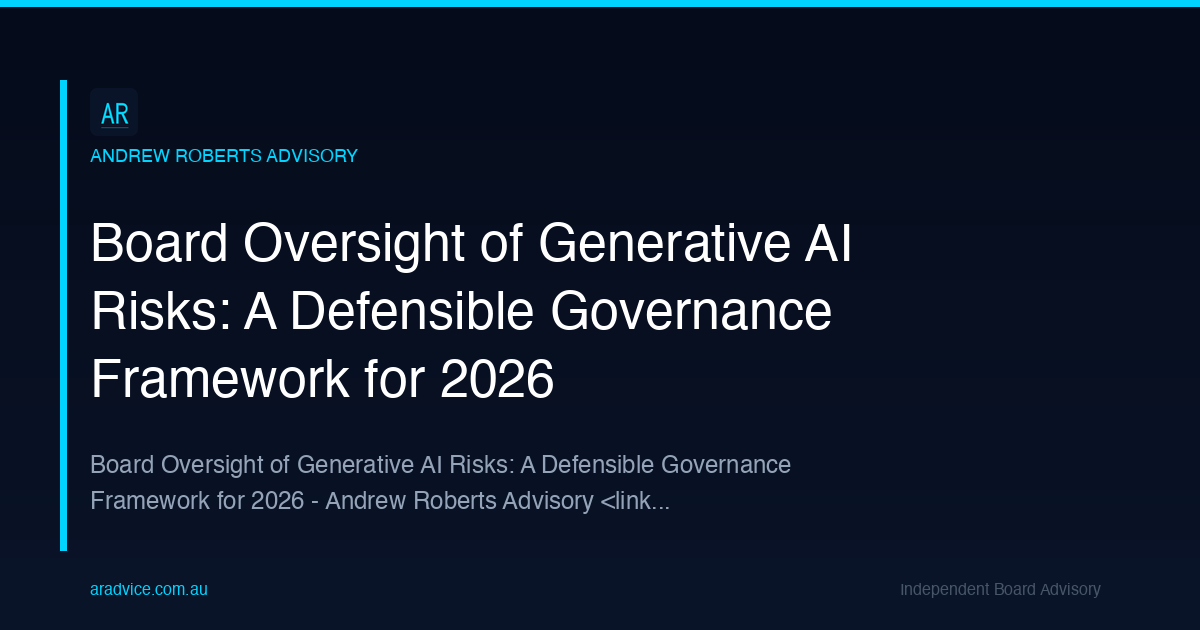
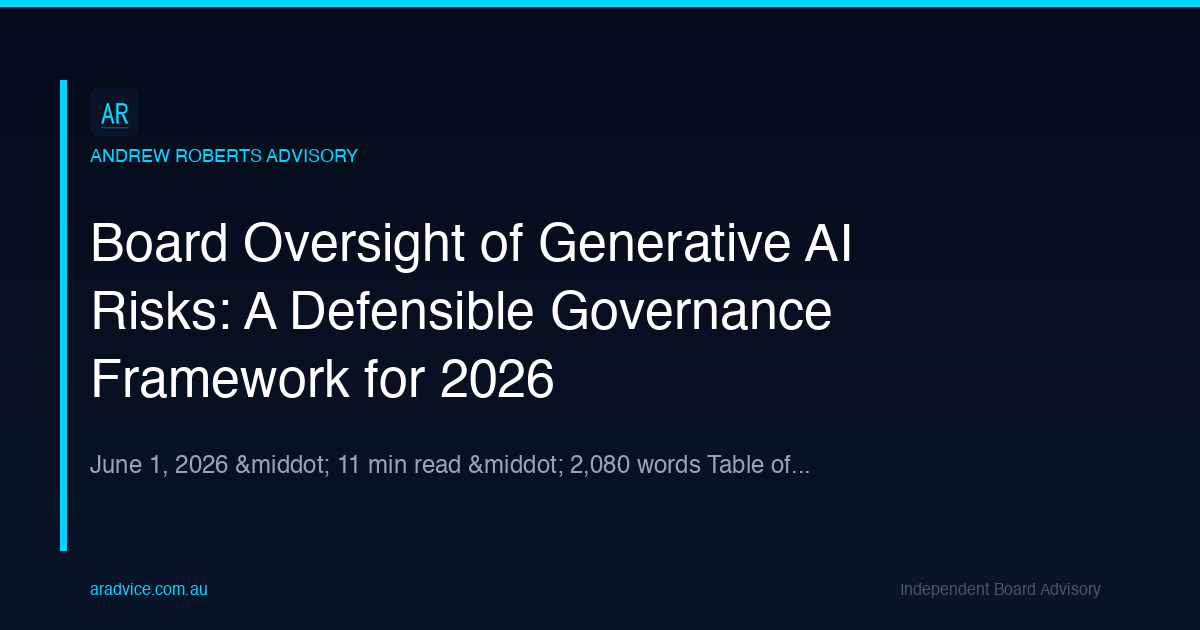
Fix og:image tagline extraction: use body content, skip past title

Changed region(s): [[0.0617, 0.7238, 0.6783, 0.754], [0.0617, 0.7841, 0.555, 0.8143]]

diff --git a/scripts/sync_blog.py b/scripts/sync_blog.py
@@ -601,9 +601,14 @@ def generate_og_image(item: FeedItem, post_slug: str) -> str:
         draw.text((90, title_y), line, font=font_title, fill="#ffffff")
         title_y += 68
 
-    raw = re.sub(r"<[^>]+>", "", item.html[:800])
+    body_match = re.search(r"<body\b.*?>(.*)</body>", item.html, flags=re.DOTALL | re.IGNORECASE)
+    body_html = body_match.group(1) if body_match else item.html
+    raw = re.sub(r"<[^>]+>", "", body_html[:3000])
     raw = re.sub(r"\s+", " ", raw).strip()
-    tagline_text = raw[:120].rsplit(" ", 1)[0] + "..."
+    content_start = raw.find(item.title)
+    if content_start > 0:
+        raw = raw[content_start + len(item.title):]
+    tagline_text = raw.strip()[:120].rsplit(" ", 1)[0] + "..."
     tagline_wrapped = textwrap.wrap(tagline_text, width=72)[:2]
     tagline_y = title_y + 30
     for line in tagline_wrapped:
